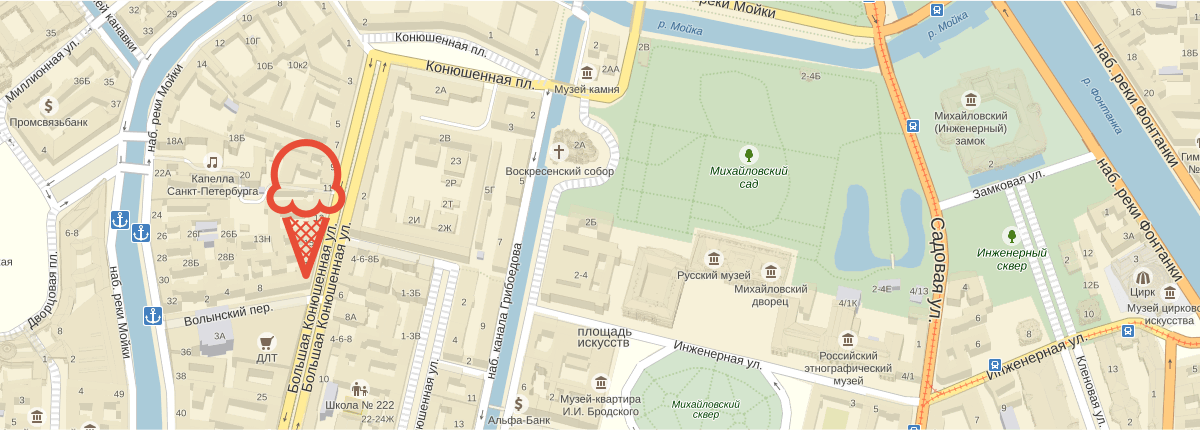
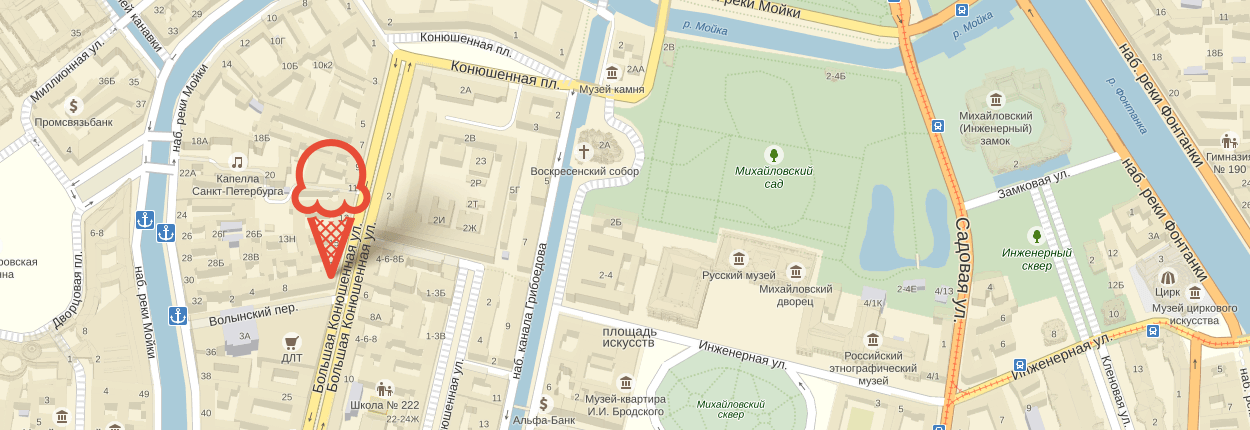
introduction in JS

diff --git a/css/style.css b/css/style.css
@@ -24,6 +24,9 @@ a:focus {
 	border-color: rgba(255,188,158,0.2);
 }
 
+input {
+	height: 44px;
+}
 input,
 textarea {
 	box-sizing: border-box;
@@ -229,6 +232,9 @@ textarea::placeholder {
 	margin: 0;
 	padding: 0;
 }
+.sub-menu__item_border_bottom {
+	border-bottom: 1px solid #d1d0ce;
+}
 
 
 .hidden-block {
@@ -387,6 +393,17 @@ textarea::placeholder {
 
 
 
+@keyframes scale {
+	0% { transform: scale(0); }
+	100% { transform: scale(1); }
+}
+
+@keyframes shake {
+	0%, 100% { transform: translateX(0); }
+	10%, 30%, 50%, 70%, 90% { transform: translateX(-10px); }
+	20%, 40%, 60%, 80% { transform: translateX(10px); }
+}
+
 .modal {
 	display: none;
 	position: fixed;
@@ -396,6 +413,15 @@ textarea::placeholder {
 	bottom: 0px;
 	z-index: 100;
 	background-color: rgba(0, 0, 0, 0.3);
+}
+.modal_show {
+	display: block;
+}
+.modal_show .feedback_inner {
+	animation: scale 0.6s;
+}
+.modal_error .feedback_inner{
+	animation: shake 0.6s;
 }
 
 
@@ -409,6 +435,7 @@ textarea::placeholder {
 	padding: 0;
 	margin: 0;
 	transform: rotate(45deg);
+	outline: none;
 }
 .btn-close::before {
 	content: "";
@@ -607,7 +634,7 @@ textarea::placeholder {
 }
 .special-offers a {
 	margin-top: auto;
-	margin-left: auto;
+	align-self: flex-end;
 }
 .special-offers__jam {
 	background-color: #9a1e39;
@@ -630,7 +657,7 @@ textarea::placeholder {
 .ice-cream-list ul {
 	padding: 0;
 	display: flex;
-	justify-content: space-between;
+	justify-content: flex-start;
 	flex-wrap: wrap;
 	list-style: none;
 }
@@ -639,13 +666,11 @@ textarea::placeholder {
 	position: relative;
 	margin-bottom: 40px;
 }
-.ice-cream-list__item:hover > img {
-	/*z-index: */
+.ice-cream-list__item:not(:nth-child(4n)) {
+	margin-right: 26px;
 }
 .ice-cream-list__item:hover {
 	z-index: 10;
-	/*background-color: rgba(255, 255, 255, 0.2);*/
-	/*z-index: 20;*/
 }
 .ice-cream-list__item_hit::before {
 	content: "";
@@ -778,8 +803,8 @@ textarea::placeholder {
 	display: flex;
 	justify-content: space-between;
 }
-.various section{
-	flex-basis: 560px;
+.various section {
+	width: 560px;
 	height: 220px;
 	box-sizing: border-box;
 	border-radius: 15px;
@@ -787,7 +812,6 @@ textarea::placeholder {
 .new-in-the-blog {
 	padding: 20px;
 	padding-right: 240px;
-	box-sizing: border-box;
 	color: #323232;
 	background-color: white;
 	background-image: url("../img/strawberryBackground.jpg");
@@ -824,24 +848,26 @@ textarea::placeholder {
 	padding: 30px 20px 35px;
 	display: flex;
 	flex-direction: column;
-	justify-content: space-between;
+	width: 100%;
 }
 .mailing__inner p {
 	margin: 0;
 }
-.mailing__inner form {
-	display: flex;
-}
 .mailing__form {
+	margin-top: auto;
 	display: flex;
+	align-items: center;
 }
 .mailing__form p {
 	flex-grow: 1;
 	margin-right: 5px;
 }
 .mailing__form input {
-	box-sizing: border-box;
 	width: 100%;
+}
+.mailing__form .red-btn {
+	margin-left: 5px;
+	padding-left: 15px;
 }
 
 
@@ -850,24 +876,30 @@ textarea::placeholder {
 	position: relative;
 	margin-top: 40px;
 	display: flex;
-/*	justify-content: flex-end;*/
 	align-items: center;
-	background-image: url("../img/map.png");
-	background-position: center;
-	background-repeat: no-repeat;
-	/*background-size: cover; */
 	color: #323232;
 	font-size: 14px;
 	font-weight: 400;
 	line-height: 20px;
 }
+.contacts iframe {
+	position: absolute;
+	top: 0px;
+	z-index: 2;
+}
+.contacts > p {
+	position: absolute;
+	top: 0;
+	left: 50%;
+	margin-left: -625px;
+	z-index: 1;
+	font-size: 0px;
+	line-height: 0px;
+}
 .contacts .content {
-	/*background-image: url("../img/map.png");*/
+	z-index: 3;
 	display: flex;
 	justify-content: flex-end;
-}
-.contacts img {
-	position: absolute;
 }
 .contacts__inner {
 	display: flex;
@@ -903,6 +935,9 @@ textarea::placeholder {
 .contacts__inner a {
 	margin-top: auto;
 	align-self: center;
+}
+.contacts__inner .red-btn {
+	padding: 10px 26px;
 }
 
 
@@ -1051,12 +1086,6 @@ textarea::placeholder {
 	font-weight: 500;
 	line-height: 18px;
 }
-/*.filter fieldset {
-	height: 70px;
-	padding: 0;
-	margin: 0;
-	border: none;
-}*/
 .filter legend {
 	font-size: 14px;
 	line-height: 16px;
@@ -1064,8 +1093,10 @@ textarea::placeholder {
 	margin-bottom: 5px;
 }
 .filter select {
-	appearance: none;
 	-webkit-appearance: none;
+	-moz-appearance: none;
+	appearance: none;
+	
 	height: 36px;
 	padding: 0 16px;
 	padding-right: 32px;
@@ -1077,6 +1108,9 @@ textarea::placeholder {
 	background-repeat: no-repeat;
 	color: white;
 	outline: none;
+}
+.filter select::-ms-expand{
+    display: none;
 }
 .filter select:hover,
 .filter select:focus {
@@ -1238,7 +1272,7 @@ textarea::placeholder {
 	border: none;
 }
 .fieldset__box {
-	min-height: 36px;
+	height: 36px;
 	background-color: rgba(255, 255, 255, 0.2);
 	display: flex;
 	align-items: center;
@@ -1362,7 +1396,7 @@ textarea::placeholder {
 }
 
 
-/**/
+
 .content {
 	width: 1200px;
 	margin: 0 auto;
@@ -1400,18 +1434,6 @@ textarea::placeholder {
 }
 
 
-
-
-
-
-
-
-
-
-
-
-
-
 .main-footer {
 	border-top: 1px solid #a9bbb1;
 	height: 108px;
@@ -1430,7 +1452,3 @@ textarea::placeholder {
 	margin: 0;
 	margin-top: 5px;
 }
-
-
-
-

diff --git a/index.html b/index.html
@@ -23,8 +23,7 @@
 								<li class="site-navigation-list__item">
 									<a href="#">Каталог</a>
 									<ul class="sub-menu">
-										<li class="sub-menu__item"><a href="#">Новинки</a></li>
-										<li class="sub-menu__item"><hr></li>
+										<li class="sub-menu__item sub-menu__item_border_bottom"><a href="#">Новинки</a></li>
 										<li class="sub-menu__item"><a href="catalog.html">Сливочное</a></li>
 										<li class="sub-menu__item"><a href="#">Щербеты</a></li>
 										<li class="sub-menu__item"><a href="#">Фруктовый лед</a></li>
@@ -163,7 +162,7 @@
 								<div class="ice-cream-list__background">
 									<a href="#" class="red-btn">Быстрый просмотр</a>
 								</div>
-							</li>								
+							</li>
 						</ul>
 					</section>
 					
@@ -208,14 +207,16 @@
 			</div>
 			<section class="contacts">
 				<h2 class="visually-hidden">Контакты</h2>
+				<!-- <iframe src="https://yandex.ru/map-widget/v1/-/CBaWADS6HA" width="100%" height="430" frameborder="0"></iframe> -->
+				<iframe src="https://www.google.com/maps/embed?pb=!1m18!1m12!1m3!1d1998.5984565545334!2d30.322439569043365!3d59.93880493055556!2m3!1f0!2f0!3f0!3m2!1i1024!2i768!4f13.1!3m3!1m2!1s0x4696310fca5ba729%3A0xea9c53d4493c879f!2z0JHQvtC70YzRiNCw0Y8g0JrQvtC90Y7RiNC10L3QvdCw0Y8g0YPQuy4sIDE5LCDQodCw0L3QutGCLdCf0LXRgtC10YDQsdGD0YDQsywgMTkxMTg2!5e0!3m2!1sru!2sru!4v1512652564998" width="100%" height="430" frameborder="0" style="border:0" allowfullscreen></iframe>
+				<p><img src="img/map.png" width="1250" height="430"></p>
 				<div class="content">
-					<!-- <img src="img/map.png" alt="Карта"> -->
 					<div class="contacts__inner">
 						<ul>
 							<li>
 								<h3>
 									Адрес главного офиса<br>
-									и офлайн-магазин:
+									и офлайн-магазина:
 								</h3>
 								<b>ул. Большая Конюшенная <br>
 								19/8, Санкт-Петербург</b>
@@ -226,7 +227,7 @@
 								(с 10 до 20 ежедневно)
 							</li>
 						</ul>
-						<a href="#" class="red-btn">Форма обратной связи</a>
+						<a href="#" class="red-btn" id="feedback-btn">Форма обратной связи</a>
 					</div>
 				</div>
 			</section>
@@ -276,5 +277,7 @@
 				</form>
 			</div>
 		</section>
+
+		<script type="text/javascript" src="js/popup.js"></script>
 	</body>
 </html>

diff --git a/js/popup.js b/js/popup.js
@@ -1,0 +1,38 @@
+var feedbackBtn = document.querySelector("#feedback-btn");
+
+var popup = document.querySelector(".feedback");
+var closeBtn = popup.querySelector(".btn-close");
+
+var form = popup.querySelector("form");
+var name = popup.querySelector("#feedback-name");
+var email = popup.querySelector("#feedback-email");
+var text = popup.querySelector("#feedback-text");
+
+feedbackBtn.addEventListener("click", function (evt) {
+	evt.preventDefault();
+	popup.classList.add("modal_show");
+	// name.focus();
+});
+
+closeBtn.addEventListener("click", function (evt) {
+	evt.preventDefault();
+	popup.classList.remove("modal_show");
+	popup.classList.remove("modal_error");
+});
+
+form.addEventListener("submit", function (evt) {
+	if (!name.value || !email.value || !text.value) {
+		evt.preventDefault();
+		popup.classList.remove("modal_error");
+		popup.classList.add("modal_error");
+	}
+});
+
+window.addEventListener("keydown", function (evt) {
+	if (evt.keyCode === 27) {
+		if ( popup.classList.contains("modal_show") ) {
+			popup.classList.remove("modal_show");
+			popup.classList.remove("modal_error");
+		}
+	}
+});
